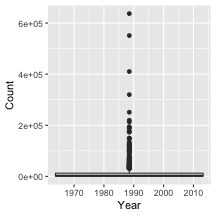
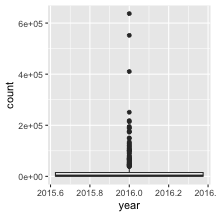
variable names

diff --git a/02_r-intro/05_factors.html b/02_r-intro/05_factors.html
@@ -1,9 +1,10 @@
 <!DOCTYPE html>
-<html xmlns="http://www.w3.org/1999/xhtml" lang="" xml:lang="">
+<html lang="" xml:lang="">
   <head>
     <title>Stat 579: Factor variables</title>
     <meta charset="utf-8" />
     <meta name="author" content="Heike Hofmann" />
+    <script src="libs/header-attrs-2.24/header-attrs.js"></script>
     <link href="libs/remark-css-0.0.1/default.css" rel="stylesheet" />
     <link href="libs/remark-css-0.0.1/default-fonts.css" rel="stylesheet" />
   </head>
@@ -11,8 +12,12 @@
     <textarea id="source">
 class: center, middle, inverse, title-slide
 
+.title[
 # Stat 579: Factor variables
+]
+.author[
 ### Heike Hofmann
+]
 
 ---
 
@@ -39,7 +44,7 @@ class: inverse
 
 - Make a summary of Year
 
-- Make Year  a factor variable: `fbi$Year &lt;- factor(fbi$Year)`
+- Make Year  a factor variable: `fbi$year &lt;- factor(fbi$year)`
 
 - Compare summary of Year to the previous result
 
@@ -55,15 +60,15 @@ boxplots in ggplot2 only work properly if the x variable is a character variable
 
 
 ```r
-twoyear &lt;- dplyr::filter(fbi, Year %in% c(1961, 2016))
+twoyear &lt;- dplyr::filter(fbi, year %in% c(1961, 2016))
 ```
 
 .pull-left[
 
 ```r
 ggplot(data = twoyear, 
-       aes(x = Year, 
-           y = Count)) + 
+       aes(x = year, 
+           y = count)) + 
   geom_boxplot()
 ```
 
@@ -74,8 +79,8 @@ ggplot(data = twoyear,
 
 ```r
 ggplot(data = twoyear, 
-       aes(x = factor(Year), 
-           y = Count)) + 
+       aes(x = factor(year), 
+           y = count)) + 
   geom_boxplot()
 ```
 
@@ -124,36 +129,27 @@ To get the labels of a factor as numbers, first cast to character and then to a 
 
 
 ```r
-levels(fbi$Type)
+fbi$type &lt;- factor(fbi$type)
+levels(fbi$type)
 ```
 
 ```
-## [1] "Aggravated.assault"                  
-## [2] "Burglary"                            
-## [3] "Larceny.theft"                       
-## [4] "Legacy.rape"                         
-## [5] "Motor.vehicle.theft"                 
-## [6] "Murder.and.nonnegligent.Manslaughter"
-## [7] "Rape"                                
-## [8] "Robbery"
+## [1] "aggravated_assault"  "arson"               "burglary"           
+## [4] "homicide"            "larceny"             "motor_vehicle_theft"
+## [7] "rape_legacy"         "rape_revised"        "robbery"
 ```
 
 manually (extremely sensitive to typos):
 
 
 ```r
-levels(factor(fbi$Type, levels=c("Larceny.theft", "Burglary", "Motor.vehicle.theft", "Aggravated.assault", "Robbery", "Legacy.rape", "Murder.and.nonnegligent.Manslaughter", "Rape")))
+levels(factor(fbi$type, levels=c("larceny", "burglary", "motor_vehicle_theft", "aggravated_assult", "robbery", "rape_legacy", "homicide", "rape_revised")))
 ```
 
 ```
-## [1] "Larceny.theft"                       
-## [2] "Burglary"                            
-## [3] "Motor.vehicle.theft"                 
-## [4] "Aggravated.assault"                  
-## [5] "Robbery"                             
-## [6] "Legacy.rape"                         
-## [7] "Murder.and.nonnegligent.Manslaughter"
-## [8] "Rape"
+## [1] "larceny"             "burglary"            "motor_vehicle_theft"
+## [4] "aggravated_assult"   "robbery"             "rape_legacy"        
+## [7] "homicide"            "rape_revised"
 ```
 
 ---
@@ -166,32 +162,16 @@ reorder levels in factor by values in `numbers`. Use `function` to summarise (av
 
 
 ```r
-levels(reorder(fbi$Type, fbi$Count, na.rm=TRUE))
+levels(reorder(fbi$type, fbi$count, na.rm=TRUE))
 ```
 
 ```
-## [1] "Murder.and.nonnegligent.Manslaughter"
-## [2] "Legacy.rape"                         
-## [3] "Rape"                                
-## [4] "Robbery"                             
-## [5] "Aggravated.assault"                  
-## [6] "Motor.vehicle.theft"                 
-## [7] "Burglary"                            
-## [8] "Larceny.theft"
+## [1] "homicide"            "arson"               "rape_legacy"        
+## [4] "rape_revised"        "robbery"             "aggravated_assault" 
+## [7] "motor_vehicle_theft" "burglary"            "larceny"
 ```
 
 missing values in `numbers`? make sure to use parameter `na.rm=TRUE`!
-
----
-class:inverse
-## Your Turn
-
-This your turn is about re-ordering factor variables.
-We are using the `tips` dataset from the package `reshape2` (you might have to install that package using the command `install.packages("reshape2")`)
-
-- Plot side-by-side boxplots of `tip` by `day`. Are there differences in the amount of tips? 
-- Get the levels of `tip` in an order of Thursday, Friday, Saturday, Sunday and plot again.
-- Is amount of `tip` the best variable to check for differences? What other variable might affect the size of a tip?
 
 
 ---
@@ -216,31 +196,26 @@ For this your turn use the `fbi` object from the `classdata` package.
 
 
 ```r
-levels(fbi$Type)
+levels(fbi$type)
 ```
 
 ```
-## [1] "Aggravated.assault"                  
-## [2] "Burglary"                            
-## [3] "Larceny.theft"                       
-## [4] "Legacy.rape"                         
-## [5] "Motor.vehicle.theft"                 
-## [6] "Murder.and.nonnegligent.Manslaughter"
-## [7] "Rape"                                
-## [8] "Robbery"
+## [1] "aggravated_assault"  "arson"               "burglary"           
+## [4] "homicide"            "larceny"             "motor_vehicle_theft"
+## [7] "rape_legacy"         "rape_revised"        "robbery"
 ```
 
 
 ```r
-levels(fbi$Type)[6] &lt;- "Murder"
+levels(fbi$type)[4] &lt;- "murder"
 
-levels(fbi$Type)
+levels(fbi$type)
 ```
 
 ```
-## [1] "Aggravated.assault"  "Burglary"            "Larceny.theft"      
-## [4] "Legacy.rape"         "Motor.vehicle.theft" "Murder"             
-## [7] "Rape"                "Robbery"
+## [1] "aggravated_assault"  "arson"               "burglary"           
+## [4] "murder"              "larceny"             "motor_vehicle_theft"
+## [7] "rape_legacy"         "rape_revised"        "robbery"
 ```
 
 ---
@@ -253,7 +228,7 @@ levels(fbi$Type)
 
 - Thomas Lumley: &lt;a href="http://notstatschat.tumblr.com/post/124987394001/stringsasfactors-sigh"&gt;&lt;em&gt;stringsAsFactors = &amp;lt;sigh&amp;gt;&lt;/em&gt;&lt;/a&gt; 
 
-- The `forcats` package has a lot of additional functions that make working with factors easier.
+- The &lt;a href="https://forcats.tidyverse.org/"&gt;`forcats` package&lt;/a&gt; has a lot of additional functions that make working with factors easier.
     </textarea>
 <style data-target="print-only">@media screen {.remark-slide-container{display:block;}.remark-slide-scaler{box-shadow:none;}}</style>
 <script src="https://remarkjs.com/downloads/remark-latest.min.js"></script>
@@ -300,9 +275,38 @@ if (window.HTMLWidgets) slideshow.on('afterShowSlide', function (slide) {
     }
     deleted = true;
   });
-})();</script>
-
-<script>
+})();
+// add `data-at-shortcutkeys` attribute to <body> to resolve conflicts with JAWS
+// screen reader (see PR #262)
+(function(d) {
+  let res = {};
+  d.querySelectorAll('.remark-help-content table tr').forEach(tr => {
+    const t = tr.querySelector('td:nth-child(2)').innerText;
+    tr.querySelectorAll('td:first-child .key').forEach(key => {
+      const k = key.innerText;
+      if (/^[a-z]$/.test(k)) res[k] = t;  // must be a single letter (key)
+    });
+  });
+  d.body.setAttribute('data-at-shortcutkeys', JSON.stringify(res));
+})(document);
+(function() {
+  "use strict"
+  // Replace <script> tags in slides area to make them executable
+  var scripts = document.querySelectorAll(
+    '.remark-slides-area .remark-slide-container script'
+  );
+  if (!scripts.length) return;
+  for (var i = 0; i < scripts.length; i++) {
+    var s = document.createElement('script');
+    var code = document.createTextNode(scripts[i].textContent);
+    s.appendChild(code);
+    var scriptAttrs = scripts[i].attributes;
+    for (var j = 0; j < scriptAttrs.length; j++) {
+      s.setAttribute(scriptAttrs[j].name, scriptAttrs[j].value);
+    }
+    scripts[i].parentElement.replaceChild(s, scripts[i]);
+  }
+})();
 (function() {
   var links = document.getElementsByTagName('a');
   for (var i = 0; i < links.length; i++) {
@@ -311,7 +315,23 @@ if (window.HTMLWidgets) slideshow.on('afterShowSlide', function (slide) {
     }
   }
 })();
-</script>
+// adds .remark-code-has-line-highlighted class to <pre> parent elements
+// of code chunks containing highlighted lines with class .remark-code-line-highlighted
+(function(d) {
+  const hlines = d.querySelectorAll('.remark-code-line-highlighted');
+  const preParents = [];
+  const findPreParent = function(line, p = 0) {
+    if (p > 1) return null; // traverse up no further than grandparent
+    const el = line.parentElement;
+    return el.tagName === "PRE" ? el : findPreParent(el, ++p);
+  };
+
+  for (let line of hlines) {
+    let pre = findPreParent(line);
+    if (pre && !preParents.includes(pre)) preParents.push(pre);
+  }
+  preParents.forEach(p => p.classList.add("remark-code-has-line-highlighted"));
+})(document);</script>
 
 <script>
 slideshow._releaseMath = function(el) {
